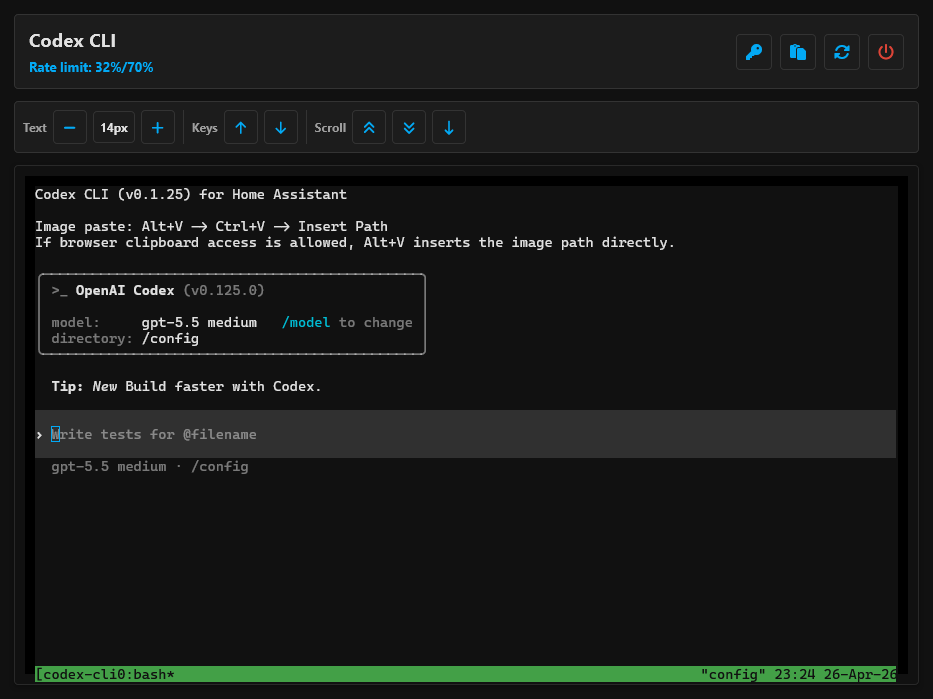
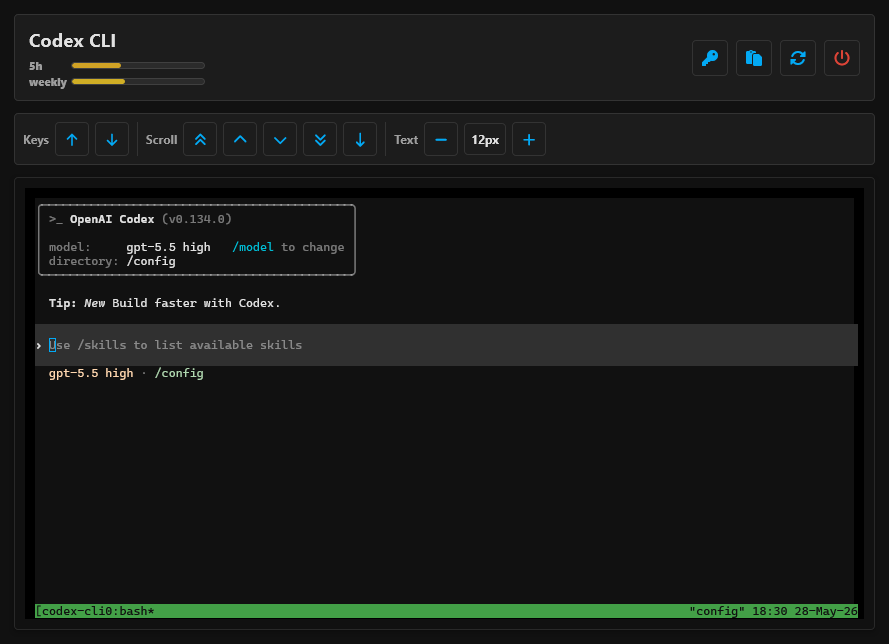
Release 0.1.26

diff --git a/README.md b/README.md
@@ -25,8 +25,9 @@ Or add it manually:
 - Pasted images are saved under `/tmp/codex-images-tmp` and cleaned up after `Insert Path`.
 - The terminal page inserts the saved image path with `Insert Path`, or directly from `Alt+V` when browser clipboard access is allowed.
 - `auth.json` upload helper for copying an existing Codex login into the add-on.
-- Header actions for Codex rate limits, image paste, Home Assistant YAML reload, and Home Assistant restart.
-- Mobile-friendly terminal controls for text size, arrow up/down keys, and tmux-backed terminal scrollback.
+- Header actions for remaining Codex rate-limit bars, image upload, Home Assistant YAML reload, and Home Assistant restart.
+- Mobile-friendly terminal controls for text size, arrow up/down keys, and tmux-backed page/line scrollback.
+- Companion-app input bar that sends complete command lines without mobile keyboard suggestions leaking into xterm.
 - Docker build installs Codex CLI with `npm install -g @openai/codex`.
 
 ## Image Paste
@@ -59,7 +60,7 @@ You can also use an API key in the add-on configuration.
 
 ## Home Assistant Actions
 
-`Reload YAML` calls Home Assistant's `homeassistant.reload_all` action through the Supervisor proxy. `Restart HA` restarts Home Assistant Core through the Supervisor API.
+`Reload YAML` calls Home Assistant's `homeassistant.reload_all` action through the Supervisor proxy. `Restart HA` restarts Home Assistant Core through the Supervisor API. The header shows remaining 5h and weekly Codex limits as compact color-coded bars.
 
 ## Credits
 

diff --git a/codex-cli/CHANGELOG.md b/codex-cli/CHANGELOG.md
@@ -1,6 +1,6 @@
 # Changelog
 
-## Unreleased
+## 0.1.26 - 2026-05-28
 
 - Added an image upload dialog for browser and Home Assistant companion app use.
 - Kept keyboard image paste shortcuts and drag/drop image attachment support.
